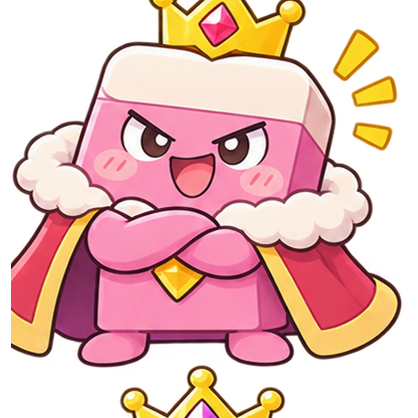
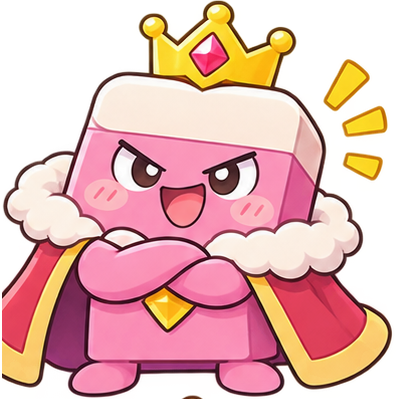
漢字の ぼうけんの おはなしの場面に、画面いっぱいの背景を つける
- 1ばんめ：島の地図（world_map）を 画面いっぱいに 出す
- 2ばんめ：まものが あらわれる、あらしの空の背景（story_dark・ChatGPT）を 出し、まものを あやしく 光らせる
- 3ばんめ：冒険が はじまる 青空と草原の背景（title・ChatGPT）を 出す。タイトル画面にも 使う
- ケシゴン（mon_r1）の絵に まざって いた 下の だんの 王冠の かけらを 消し、上の 王冠が 切れないように 切りわけ直す
- split.ps1 に -OffY（マスを 上に ずらす）と -CutBottom（マスの 下を 見ない）を 足す
- README と データの 点検（絵 36まい）を 合わせる

diff --git a/kanjiquest/index.html b/kanjiquest/index.html
@@ -79,6 +79,9 @@ ruby rt { font-family: var(--ui); }
 
 /* ストーリー */
 .story-screen { align-items: center; justify-content: flex-end; background: linear-gradient(#253a6b, #5b78b8); padding: 1.2rem; }
+.story-full { position: absolute; inset: 0; width: 100%; height: 100%; object-fit: cover; display: block; }
+.story-screen .story-box, .story-screen .story-art { z-index: 1; }
+.story-art .fit img { filter: drop-shadow(0 0 18px rgba(255,80,200,.55)) drop-shadow(0 8px 6px rgba(0,0,0,.5)); }
 .story-art { flex: 1; width: 100%; display: flex; align-items: center; justify-content: center; gap: 1rem; min-height: 0; }
 .story-box { width: min(900px, 100%); font-size: 1.45rem; line-height: 1.9; min-height: 6.5em; position: relative; padding-bottom: 3.6rem; }
 .story-next { position: absolute; right: 1rem; bottom: .8rem; display: flex; gap: .6rem; }
@@ -573,7 +576,7 @@ ruby rt { font-family: var(--ui); }
      ===================================================================== */
   const IMG = {};
   function imgNames() {
-    const n = ['title', 'world_map', 'fude'];
+    const n = ['title', 'world_map', 'fude', 'story_dark'];
     Q.HEROES.forEach((h) => n.push(h.img));
     Q.AREAS.forEach((a) => n.push('field_' + a.id, 'bg_' + a.id));
     Object.keys(Q.MON).forEach((id) => n.push('mon_' + id));
@@ -940,13 +943,19 @@ ruby rt { font-family: var(--ui); }
 
   /* ---- ストーリー ---- */
   const STORY = [
-    { t: 'ここは ことばの しま「コトノハ」。かんじの ちからで かがやく、いろ あざやかな しまでした。', art: () => `<div style="width:min(520px,80vw);border-radius:18px;overflow:hidden">${IMG.world_map ? `<img src="${IMG.world_map}" style="width:100%;display:block">` : worldSVG()}</div>` },
-    { t: 'ところが ある ひ、かんじを たべる まものたちが あらわれて、しまの かんじを もって いって しまいました。', art: () => ['s1', 'r1', 'r4'].map((id) => `<div class="fit" style="width:min(200px,26vw);aspect-ratio:1">${monsterHTML(id)}</div>`).join('') },
-    { t: 'きみは あいぼうの ドラゴン「フデリュウ」と いっしょに、まものを たおして かんじを とりもどすんだ！', art: () => `<div style="height:min(300px,40vh);font-size:18px">${heroHTML()}</div><div class="fit" style="height:min(180px,26vh);aspect-ratio:1">${fudeHTML()}</div>` },
+    // full：画面いっぱいに 出す 絵（img/ の 名前）
+    { t: 'ここは ことばの しま「コトノハ」。かんじの ちからで かがやく、いろ あざやかな しまでした。', full: 'world_map', art: () => '' },
+    { t: 'ところが ある ひ、かんじを たべる まものたちが あらわれて、しまの かんじを もって いって しまいました。', full: 'story_dark', art: () => ['s1', 'r1', 'r4'].map((id) => `<div class="fit" style="width:min(200px,26vw);aspect-ratio:1">${monsterHTML(id)}</div>`).join('') },
+    { t: 'きみは あいぼうの ドラゴン「フデリュウ」と いっしょに、まものを たおして かんじを とりもどすんだ！', full: 'title', art: () => `<div style="height:min(300px,40vh);font-size:18px">${heroHTML()}</div><div class="fit" style="height:min(180px,26vh);aspect-ratio:1">${fudeHTML()}</div>` },
   ];
   function scStory(i) {
     const s = STORY[i];
-    app.innerHTML = `<div class="screen story-screen"><div class="story-art">${s.art()}</div>
+    let full = '';
+    if (s.full && IMG[s.full]) full = `<img class="story-full" src="${IMG[s.full]}" alt="">`;
+    else if (s.full === 'world_map') full = worldSVG().replace('<svg ', '<svg class="story-full" ');
+    else if (s.full === 'title') full = '<div class="story-full" style="background:linear-gradient(#4a8fd8,#bfe6fb 60%,#7cc65e 60%)"></div>';
+    else if (s.full === 'story_dark') full = '<div class="story-full" style="background:radial-gradient(circle at 50% 40%,#5b3a8a,#1a0f2e 75%)"></div>';
+    app.innerHTML = `<div class="screen story-screen">${full}<div class="story-art">${s.art()}</div>
       <div class="panel story-box">${s.t}
         <div class="story-next"><button class="btn small" data-act="speakAgain">🔊 もういちど</button><button class="btn small" data-act="storySkip">とばす</button><button class="btn gold" data-act="storyNext" data-arg="${i + 1}">つぎへ ▶</button></div>
       </div></div>`;

diff --git a/kanjiquest/tools/check.js b/kanjiquest/tools/check.js
@@ -34,7 +34,7 @@ const ids = Q.SHOP.flatMap((c) => c.items.map((i) => i.id));
 ok(new Set(ids).size === ids.length && Q.SHOP.every((c) => c.items.every((i) => i.p > 0)), 'おみせの しなもの（IDと ねだん）');
 
 // 絵（なくても うごきますが、ない ものを 知らせます）
-const want = ['title', 'world_map', 'fude', ...Q.HEROES.map((h) => h.img), ...Q.AREAS.flatMap((a) => ['field_' + a.id, 'bg_' + a.id]), ...Object.keys(Q.MON).map((id) => 'mon_' + id)];
+const want = ['title', 'world_map', 'fude', 'story_dark', ...Q.HEROES.map((h) => h.img), ...Q.AREAS.flatMap((a) => ['field_' + a.id, 'bg_' + a.id]), ...Object.keys(Q.MON).map((id) => 'mon_' + id)];
 const dir = path.join(__dirname, '..', 'img');
 const have = fs.existsSync(dir) ? fs.readdirSync(dir) : [];
 const missing = want.filter((n) => !have.includes(n + '.webp') && !have.includes(n + '.png') && !have.includes(n + '.jpg'));

diff --git a/kanjiquest/README.md b/kanjiquest/README.md
@@ -84,11 +84,15 @@ kanjiquest/tools/split.ps1   1まいに ならべた絵を 切りわけて img/ 
 | `bg_a1` 〜 `bg_a4` | たたかいの背景 | 2×2 に ならべて 1まい |
 | `field_a1` 〜 `field_a4` | エリアの地図（道は アプリが かさねて かきます） | 2×2 に ならべて 1まい |
 | `world_map` | ワールドマップ（4つの場所の位置を指定） | 1まい（4:3） |
+| `story_dark` | おはなし2ばんめの背景（まものが あらわれる、あらしの空の島） | 1まい（16:9） |
+| `title` | タイトル画面と おはなし3ばんめの背景（冒険が はじまる 青空と草原） | 1まい（16:9） |
 
 - 切りわけ方の例：
   `powershell -NoProfile -ExecutionPolicy Bypass -File kanjiquest\tools\split.ps1 -Src "<ダウンロードの絵>" -Cols 3 -Rows 3 -Names "mon_s3,mon_s4,..." -Max 512`
   （背景は `-NoTrim` をつけます）
-- タイトル画面は、`title` が ないときは `bg_a4`（そらの いわやま）を使います。
+- タイトル画面は `title` を使います（ないときは `bg_a4`）。
+- おはなしの1ばんめは `world_map`、2ばんめは `story_dark`、3ばんめは `title` を画面いっぱいに出します。
+- 切りわけで となりの だんの 絵が はみ出すときは、`-OffY`（マスを上にずらす）と `-CutBottom`（マスの下を見ない）を使います（`mon_r1` は `-OffY 30 -CutBottom 24`）。
 
 ## 公開の手順
 
